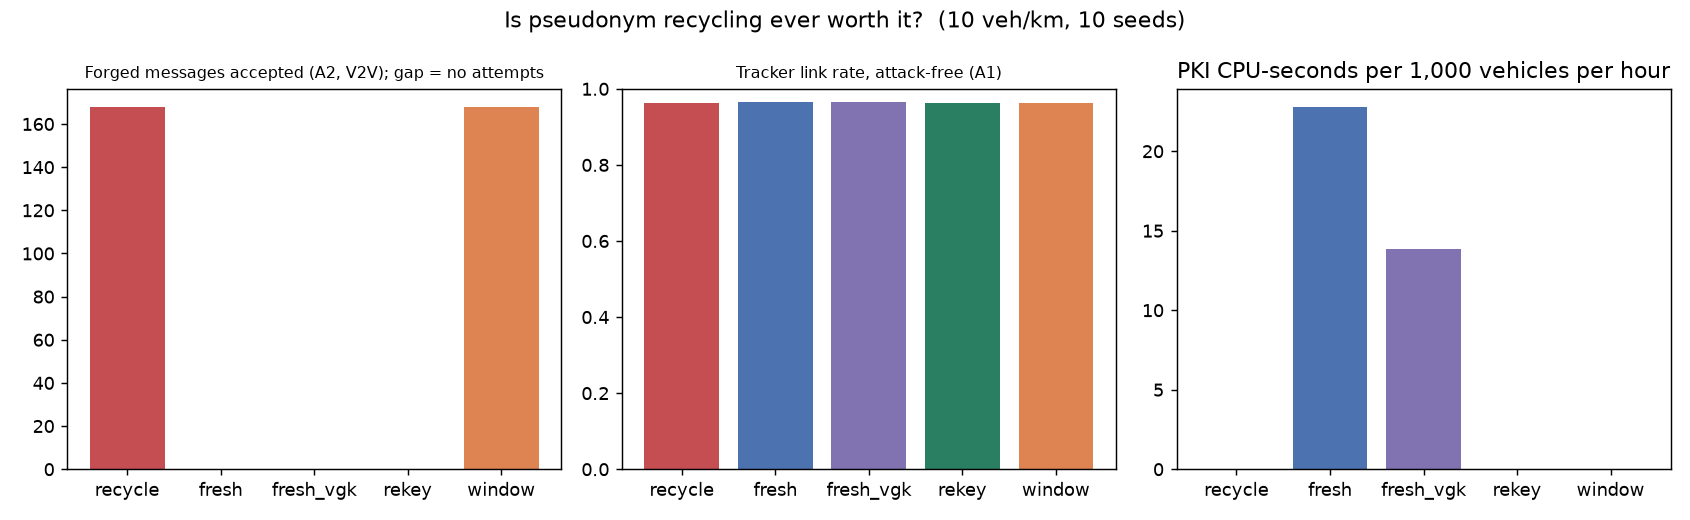
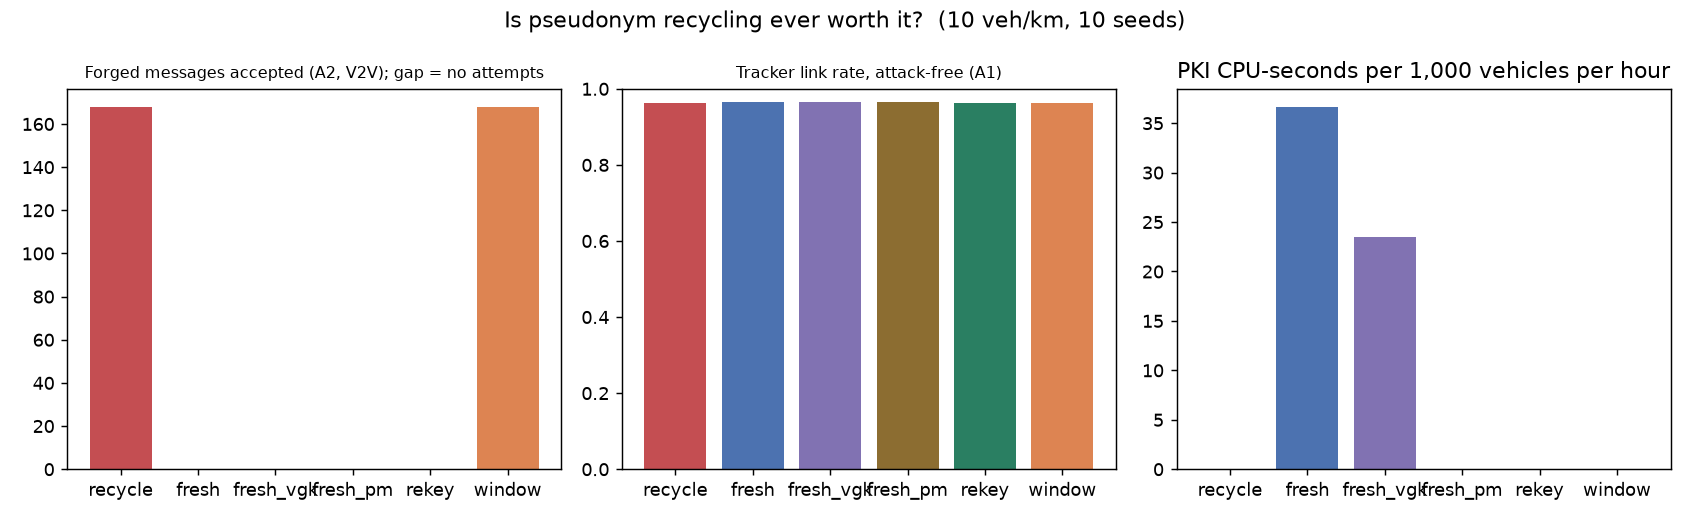
3.7.0 docs: README, scope, figure map, CHANGELOG; redraw summary from the 3.7.0 E4; list new experiments in --only help

diff --git a/src/pop_sim/cli.py b/src/pop_sim/cli.py
@@ -428,7 +428,7 @@ def main(argv: list[str] | None = None) -> int:
     rc.add_argument("--long", action="store_true", help="also run E1x/E2x over a 600 s horizon (certificates expire)")
     rc.add_argument("--sensitivity", action="store_true", help="also run E1r: the revocation rule (k reports from m RSUs)")
     rc.add_argument("--only", default=None,
-                    help="comma-separated subset of E1,E2,E3,E3b,E4,E5,E6 to (re)run; the others are loaded from --out")
+                    help="comma-separated subset of E1,E2,E3,E3b,E4,E5,E6,E3bi,E1q,E1s to (re)run; the others are loaded from --out")
     rc.add_argument("--only-long", action="store_true",
                     help="skip E1-E6 (their results must already exist) and run only --long / --sensitivity (both if neither is set)")
     rc.add_argument("--out", default="results/recycling")

diff --git a/docs/recycling.md b/docs/recycling.md
@@ -50,10 +50,13 @@ Identity nodes are *holdings*: a recycled pid is a different node for every hold
 | `attribution="ledger"` | The RSU attributes a message to the ledger's current holder of its pseudonym, as a real RSU must; a report names that holder. Unsigned or wrongly signed messages are dropped without a report. |
 | `v2v=True` | Vehicle-to-vehicle receivers within `v2v_range_m` verify certificate and signature only (`v2/v2v.py`); `v2v_plausibility=True` adds the local two-places-at-once rule. Cryptographic checks are cached per message. |
 | `former_holders=k`, `former_holder_strategy` | A2 adversaries: S1 remote shadow, S2 co-located ghost (claims a position `ghost_offset_m` from the victim while physically in range), S3 gap filler (between holders). |
-| `issuance` | `recycle` (the manuscript), `fresh` (PKI issues new sets every round, used sets retired), `fresh_vgk` (vehicle-generated keys, PKI only signs), `rekey` (recycled pid, fresh vehicle key, PM-signed holder-bound certificate), `window` (ablation: holder certificate, key unchanged). |
+| `issuance` | `recycle` (the manuscript), `fresh` (PKI issues new sets every round, used sets retired), `fresh_vgk` (vehicle-generated keys, PKI only signs), `fresh_pm` (as fresh_vgk, but a PM signs the certificate and attaches its own PKI certificate, which receivers check; 3.7.0), `rekey` (recycled pid, fresh vehicle key, PM-signed holder-bound certificate), `window` (ablation: holder certificate, key unchanged). |
 | `pseudonym_lifetime` | Certificate lifetime; recycled certificates near expiry are renewed by PKI and counted as its work. |
 | `revoked_keep_transmitting=True` | A revoked vehicle keeps beaconing under the pseudonyms it holds. |
 | `shuffle_before_upload=True` | The one-line fix for the cloud-order leak. |
+| `misbehaviour_response` | `revoke_holder` (default: the PM revokes the vehicle the report names) or `quarantine_pseudonym` (3.7.0: the reported label is withdrawn from circulation and nobody is revoked). |
+| `insider_active` | Which insider entities forge in E3b (default all four; E3bi runs one at a time). |
+| `clone_allowance_m` | The RSU clone check's position allowance (default 25 m; swept in E1s). |
 
 Receivers in `rekey` and `window` modes require a holder-bound certificate
 (`pid, pk, [t_start, t_end]`, PM-signed, PM certified by PKI) whose window contains
@@ -72,6 +75,9 @@ the current time, and verify the message under the certificate's key.
 | E6 bench re-check | all | the 18-attack bench under oracle vs ledger attribution | outcome changes |
 | E1x / E2x (`--long`) | RQ1, RQ2 | 600 s horizon, certificate lifetime | as E1 and E2, with renewals |
 | E1r (`--sensitivity`) | RQ1 | revocation rule (k reports from m RSUs), strategy, horizon | honest vehicles revoked, wrongful reports, misbehaver's time to revocation |
+| E1s (`--sensitivity`, 3.7.0) | RQ1 | nine detection-side variants on the E1 seeds, S1 and S2, attack-free control, matched misbehaver | honest vehicles revoked, attempts, benign rejections, time to revoke the misbehaver |
+| E1q (`--sensitivity`, 3.7.0) | RQ1 | revoke the holder vs quarantine the pseudonym, S1 and S2, 120 s and 600 s | honest vehicles revoked, labels withdrawn, vehicles losing a label, stock-outs |
+| E3bi (3.7.0) | RQ3 | one insider entity forging at a time | as E3b |
 | SUMO (`recycling-sumo`) | RQ1, RQ4 | scenario (LuST motorway, netgenerate motorway) | E1 core cell and E4 on a real trace |
 
 Every cell reports the mean with a 95 % bootstrap confidence interval over seeds
@@ -203,10 +209,15 @@ establish, stated once here:
   * The former holder stops forging once it is itself revoked, although E2
     shows that retained credentials stay acceptable to vehicles after
     revocation; a persistent attacker is not modelled.
+  * Since 3.7.0 the former holder sends nothing under a credential whose
+    certificate has expired (the expiry is printed in the certificate it kept),
+    and each of its key checks is counted in one bucket: held by itself,
+    retired, expired, or valid.
   * The insider forger (E3b) transmits from the position it claims, so a
     remote PM, PKI or cloud insider is given a radio wherever it wants one;
-    all four entities forge in the same run (no per-entity isolation); its
-    forged CAMs are not fed to the outside tracker (the former holder's are).
+    E3b has all four entities forge in the same run, E3bi (3.7.0) one at a
+    time; its forged CAMs are not fed to the outside tracker (the former
+    holder's are).
   * The eavesdropper hears every honest CAM and every former-holder CAM, not
     the insiders'.
 * **Detection (R08 to R11).** Version 3.5.0 adds the options the review asks for,
@@ -218,17 +229,26 @@ establish, stated once here:
   a local clone-check history per RSU (`rsu_history="local"`), continuous report
   processing with a delivery delay (`report_processing="continuous"`,
   `report_delay_s`) and a genuine misbehaver that replays every second
-  (`malicious_replay="per_second"`). The results therefore still rest on one
-  speed bound (60 m/s plus 25 m) at noise-free signed positions, a clone-check
-  history shared by all RSUs (so a multi-RSU quorum is not a set of independent
-  witnesses), and reports handled at 30 s round boundaries with the misbehaver
-  replaying once per round while a former holder signs every second, so revocation
-  latencies in E1r mix policy with batching and workload. Benign false positives
-  under sensor noise are not measured.
+  (`malicious_replay="per_second"`). Version 3.7.0 sweeps them for the E1 core
+  cell (E1s, with the RSU clone allowance `clone_allowance_m` added): local
+  histories and continuous processing move S1's wrongful revocations from 43.4
+  to 12.7 of 91.5 honest vehicles in two minutes; loss, the 10 m allowance and
+  signed-position error leave them unchanged; an attack-free control revokes
+  nobody in any variant and measures the benign rejections at receivers
+  (0.13 %). E1r, E2, E4 and the SUMO runs keep the defaults (one speed bound,
+  a shared clone-check history, so a multi-RSU quorum is not a set of
+  independent witnesses, and round-end report processing), so their revocation
+  latencies still mix policy with batching.
+* **Response to a report (3.7.0).** Revoking the vehicle the ledger names is the
+  manuscript's rule; quarantining the pseudonym is evaluated beside it (E1q). It
+  removes the wrongful revocations but withdraws labels from honest holders and
+  leaves forgeries accepted at receivers.
 * **Fresh issuance is a matched ablation (R19).** `fresh` and `fresh_vgk` keep the
   rest of the infrastructure so that only issuance changes. They are not an
   SCMS-style system (no butterfly keys, linkage values, batch pre-loading or
-  their availability, storage and network trade-offs).
+  their availability, storage and network trade-offs). `fresh_pm` (3.7.0) is a
+  delegated control of the same kind: it trusts the PMs to certify only keys
+  vehicles generated, and the PKI's revocation of a PM is not modelled.
 * **Re-keying assumes an honest issuer (R20).** A new vehicle key stops an old
   holder's key from signing for the new holder only if the holder-bound
   certificate is issued honestly. A malicious PM can certify a key it controls;
@@ -239,4 +259,5 @@ establish, stated once here:
 * **Exploratory analyses (R24).** The pre-registered plan covered E1 to E6 and the
   outcome cases above. E1x, E2x, E1r, E3b, the SUMO runs, the attack-free privacy
   comparison and the equivalence margin (one point of link rate, set in 3.5.0
-  after the earlier results were known) were added later and are exploratory.
+  after the earlier results were known) were added later and are exploratory, as
+  are E1s, E1q, E3bi and `fresh_pm` (3.7.0).

diff --git a/README.md b/README.md
@@ -68,7 +68,7 @@ src/pop_sim/
   experiments_sumo.py       E1 and E4 on SUMO traces, return policies, traffic realizations
   plots.py, plots_v2.py
   cli.py             `pop-sim run`, `run-v2`, `bench`, `demo`
-tests/               112 tests: crypto, chain integrity, every consensus, protocol invariants, v2, attack bench, scenarios, ECVRF, tracker, recycling study
+tests/               125 tests: crypto, chain integrity, every consensus, protocol invariants, v2, attack bench, scenarios, ECVRF, tracker, recycling study
 results/, figures/   JSON and PNG of the full v1 run; results/v2 and figures/v2 of the full v2 run
 config/benchmark.json  example configuration for `pop-sim bench`
 Dockerfile           reproducible environment (python:3.11-slim + requirements.lock)
@@ -84,7 +84,7 @@ docs/attacks_and_usecases.md  the attack table and the scenario table
 ```bash
 python -m venv .venv && . .venv/bin/activate
 pip install -r requirements-dev.txt
-pytest -q                                   # 112 tests
+pytest -q                                   # 125 tests
 PYTHONPATH=src python -m pop_sim demo       # trace three shuffle rounds (v1)
 PYTHONPATH=src python -m pop_sim demo --mobility --consensus popv2   # v2: vehicles drive, VRF election
 PYTHONPATH=src python -m pop_sim run --quick     # v1 experiments, small budgets (~15 s)
@@ -153,7 +153,7 @@ Every shuffle round (`run_round`) then does:
 The consensus is pluggable (`pop`, `poet`, `pow2`, `pokw`) so the same protocol run
 can be compared across algorithms.
 
-## Pseudonym recycling study (versions 3.0.0 to 3.6.0)
+## Pseudonym recycling study (versions 3.0.0 to 3.7.0)
 
 The manuscript's central mechanism is *recycling*: used pseudonyms are shuffled
 through the privacy-manager cloud and handed to other vehicles, so that the PKI is
@@ -166,7 +166,8 @@ Design, threat model, metrics, the pre-registered outcome cases and the scope af
 the external review are in [docs/recycling.md](docs/recycling.md); measured results
 in [docs/recycling_results.md](docs/recycling_results.md); the item-by-item responses
 to the external review of 3.4.0 in [docs/review_response.md](docs/review_response.md)
-and to its follow-up on 3.5.0 in [docs/review_response_round2.md](docs/review_response_round2.md).
+to its follow-up on 3.5.0 in [docs/review_response_round2.md](docs/review_response_round2.md),
+and to the third review, of 3.6.0, in [docs/review_response_round3.md](docs/review_response_round3.md).
 
 The answer, over ten seeds, on a synthetic ring, two SUMO motorway scenarios and
 five traffic realizations of one of them:
@@ -175,17 +176,22 @@ five traffic realizations of one of them:
   point of link rate without attackers (recycle is 0.2 to 0.4 points less linkable).
 * **A former holder forges messages that vehicles accept** (75 to 100 % of receivers
   in range, by strategy) and the ledger turns them into revocations of innocent
-  vehicles: 48 % of the honest vehicles in two minutes with 5 % former holders on
-  the ring, 22 to 24 % of those seen on the SUMO motorways. A stricter revocation
-  rule only delays it (E1r). These rates are conditional on an attack schedule that
+  vehicles: 14 to 48 % of the honest vehicles in two minutes with 5 % former holders
+  on the ring, depending on the detection side (48 % with the published shared
+  history, 14 % with a history per RSU and continuous report processing; E1s), and
+  22 to 24 % of those seen on the SUMO motorways. A stricter revocation rule only
+  delays it (E1r); quarantining the pseudonym instead of revoking its holder removes
+  the wrongful revocations at the cost of withdrawn labels (E1q). These rates are conditional on an attack schedule that
   reads simulator state (who holds the pseudonym), not feasible attack rates.
 * **Revocation does not reach vehicles** before the certificates expire, under
   recycle and fresh issuance alike; only holder-bound re-keying ends it.
-* **Recycling wins only on PKI load** (fresh issuance costs the PKI 23 CPU-seconds
-  per 1,000 vehicle-hours with measured software costs, 14 with vehicle-generated
-  keys, and its PMs 37 for verifying the certificates they receive), and the safe
-  form of recycling (`rekey`) hands the signing to the privacy managers, at 12 to
-  47 % more bytes per message.
+* **Recycling wins only on PKI load** (fresh issuance costs the PKI 37 CPU-seconds
+  per 1,000 vehicle-hours with the 3.7.0 run's measured software costs, 23 with
+  vehicle-generated keys, and its PMs 58 for verifying the certificates they
+  receive), and the safe form of recycling (`rekey`) hands the signing to the
+  privacy managers, at 12 to 47 % more bytes per message; so does a delegated
+  fresh-label control (`fresh_pm`: fresh labels, vehicle keys, PM-signed
+  certificates), with no PKI signing and no recycled label.
 * **The infrastructure holds vehicle signing keys** under recycle, fresh and window
   issuance (PKI, PMs, RSUs, cloud), and each can sign as a vehicle undetected (E3b);
   only vehicle-generated keys (fresh_vgk, rekey) keep them out.
@@ -201,6 +207,13 @@ counted, attackers keep every credential they held, exposure is per contiguous
 window, holder windows no longer overlap at a handoff, equivalence is a mean TOST,
 opportunities have honest denominators, CPU is broken down by operation, and every
 result file carries its own provenance and calibration.
+Version 3.7.0 answers the third review: a former holder no longer sends under an
+expired certificate and every key check is counted in exactly one bucket; the RSU
+attributes a message to the holder at its own timestamp; exposure is pooled per
+window with a bootstrap over seeds and truncation marked; the detection side is swept
+(E1s) with an attack-free control; insiders are run one at a time (E3bi); quarantine
+(E1q) and delegated fresh labels (`fresh_pm`) are added; provenance covers untracked
+files and dependency pins and archives any differing source.
 
 ## Results at a glance
 

diff --git a/CHANGELOG.md b/CHANGELOG.md
@@ -1,5 +1,49 @@
 # Changelog
 
+## 3.7.0 - response to the third review of 3.6.0
+
+Every item of the third review (H01 to H08) is answered in
+docs/review_response_round3.md; every experiment was rerun.
+
+Corrections:
+
+* H01: a former holder sends nothing under a credential whose certificate has
+  expired; every key check falls in one bucket (held by self, retired, expired,
+  valid) and sent <= eligible <= valid.  E1 is unchanged; over 600 s with 300 s
+  certificates S1 revokes 84.2 honest vehicles (3.6.0: 90.5) and S2 58.4 (71.2),
+  because expired forgeries had passed the RSU's ledger check.
+* H02: the RSU attributes a message to the holder at the message's own timestamp
+  (`PseudonymLedger.owner_at`, binary search over an ownership log).  Rekey
+  binding now updates that log with the new key.  E5 and the rekey cells are
+  unchanged.
+* H03: exposure is pooled per window with a bootstrap over seeds; each segment
+  keeps its pseudonym and holder; span and accepted seconds are separate;
+  truncated windows are marked and completed windows reported apart.
+* Local RSU clone-check histories no longer carry a previous holding's position
+  into the next allotment (found by the E1s attack-free control).
+
+Added:
+
+* H04, E1s: the E1 core cell under nine detection-side variants on the same
+  seeds, with an attack-free control and a matched misbehaver.  S1 revokes 13 to
+  43 of 91.5 honest vehicles in two minutes depending on the variant.  RSU clone
+  allowance is a parameter (`clone_allowance_m`).
+* E1q: quarantine the reported pseudonym instead of revoking its holder
+  (`misbehaviour_response`).
+* E3bi: one insider entity forging at a time (`insider_active`).
+* `fresh_pm` issuance: fresh labels, vehicle-generated keys, PM-signed
+  certificates with the PM's PKI certificate checked at receivers.
+* H06: provenance covers untracked files, the dependency pins and the
+  Dockerfile, archives any differing source under results/provenance/, says
+  when it was captured, and SUMO results carry trace content hashes.
+* H08: cross-layer tests (sent messages against opportunity buckets, a real
+  handoff against ledger, window and key, honest messages through the RSU check
+  in every mode, attack-free runs revoke nobody, retention per credential
+  version); results/test_log.txt; 125 tests.
+
+Not changed, stated: the attack schedules read simulator state (H05).  The
+manuscript figure generator (H07) is to be added under paper/.
+
 ## 3.6.0 - response to the follow-up review of 3.5.0
 
 Every item of the follow-up review (G01 to G10) is answered in

diff --git a/docs/figure_map.md b/docs/figure_map.md
@@ -9,6 +9,16 @@ coefficients and the environment they were measured in); `run_info.json` only
 describes the last run (review G09). One entry point runs everything:
 `scripts/reproduce.sh`.
 
+From 3.7.0 (review H06) provenance is captured when the command starts and says
+so (`provenance_capture: "command start"`; 3.6.0 files without that field
+recorded the commit when they were written). The source inventory covers `src`,
+`config`, `scripts`, `pyproject.toml`, the `requirements*` pins and the
+`Dockerfile`, untracked files included; when it differs from the commit, the
+difference (tracked diff plus untracked files in full) is archived as
+`results/provenance/<sha256>.json`, named by the `source_snapshot_sha256` the
+result records. SUMO result files record the content hash of each trace they
+read (`traces`, the same hash as `config/sumo/CONTENT_SHA256SUMS`).
+
 Scientific values are deterministic for a given seed and source; wall-clock
 timings, the cost calibration and the provenance metadata are not, and are
 excluded from any comparison of outputs.
@@ -58,6 +68,7 @@ excluded from any comparison of outputs.
 | `figures/recycling/summary.png` | `E4.json` (`privacy_attack_free`, `cells`) | `plots_recycling.fig_summary` | any `recycling` run |
 | `figures/recycling/SUMO_<name>.png` | `results/recycling/SUMO_<name>.json` | `plots_recycling.fig_sumo` | `recycling-sumo --name <name>` |
 | (tables only) | `results/recycling/SUMO_returns_motorway.json`, `SUMO_realizations_motorway.json` | none | `recycling-sumo --returns`, several `--trace` |
+| (tables only) | `results/recycling/E1s.json`, `E1q.json`, `E3bi.json` (3.7.0) | none | `recycling --only E1s`, `--only E1q`, `--only E3bi` |
 
 Rates drawn as gaps are cells with no attempts (not applicable), never zeros.
 Per-seed numerators and denominators sit under `per_seed` in every recycling

diff --git a/docs/review_response_round3.md b/docs/review_response_round3.md
@@ -7,9 +7,9 @@ status of each in version 3.7.0. The earlier reviews are answered in
 [review_response_round2.md](review_response_round2.md) (G01 to G10); the results are
 in [recycling_results.md](recycling_results.md).
 
-Every experiment was rerun at 3.7.0 from commit `2ff94e9` (results committed after
-it carry no source change; each file records its own provenance, captured when its
-command started). Three experiments are new: E1s (detection-side sensitivity, H04),
+Every experiment was rerun at 3.7.0 from commit `2ff94e9`; each file records its own
+provenance, captured when its command started. The source changed after those runs
+only in the help text of `recycling --only`, which now lists the new experiments. Three experiments are new: E1s (detection-side sensitivity, H04),
 E1q (quarantining the pseudonym instead of revoking the holder) and E3bi (one insider
 at a time). E4 gains a delegated fresh-label control, `fresh_pm`. The suite is 125
 tests.
